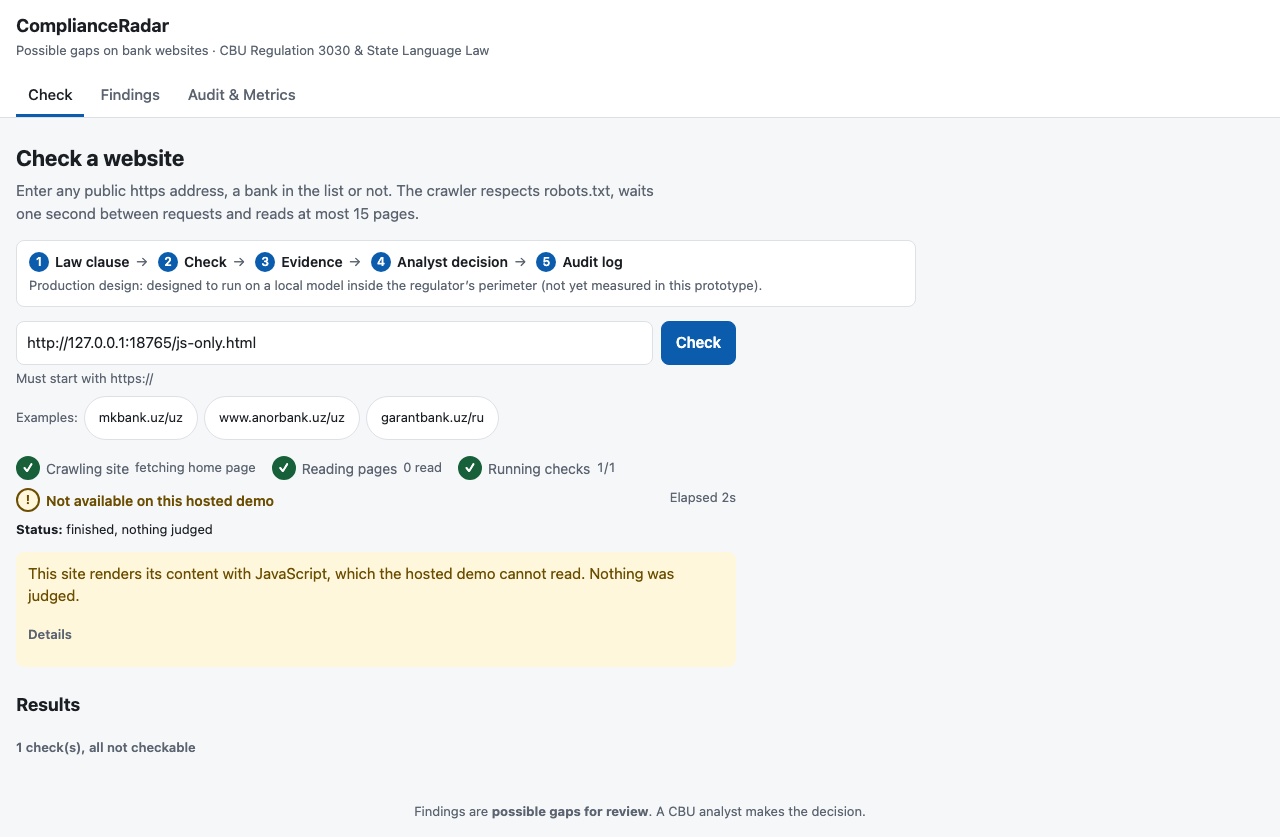
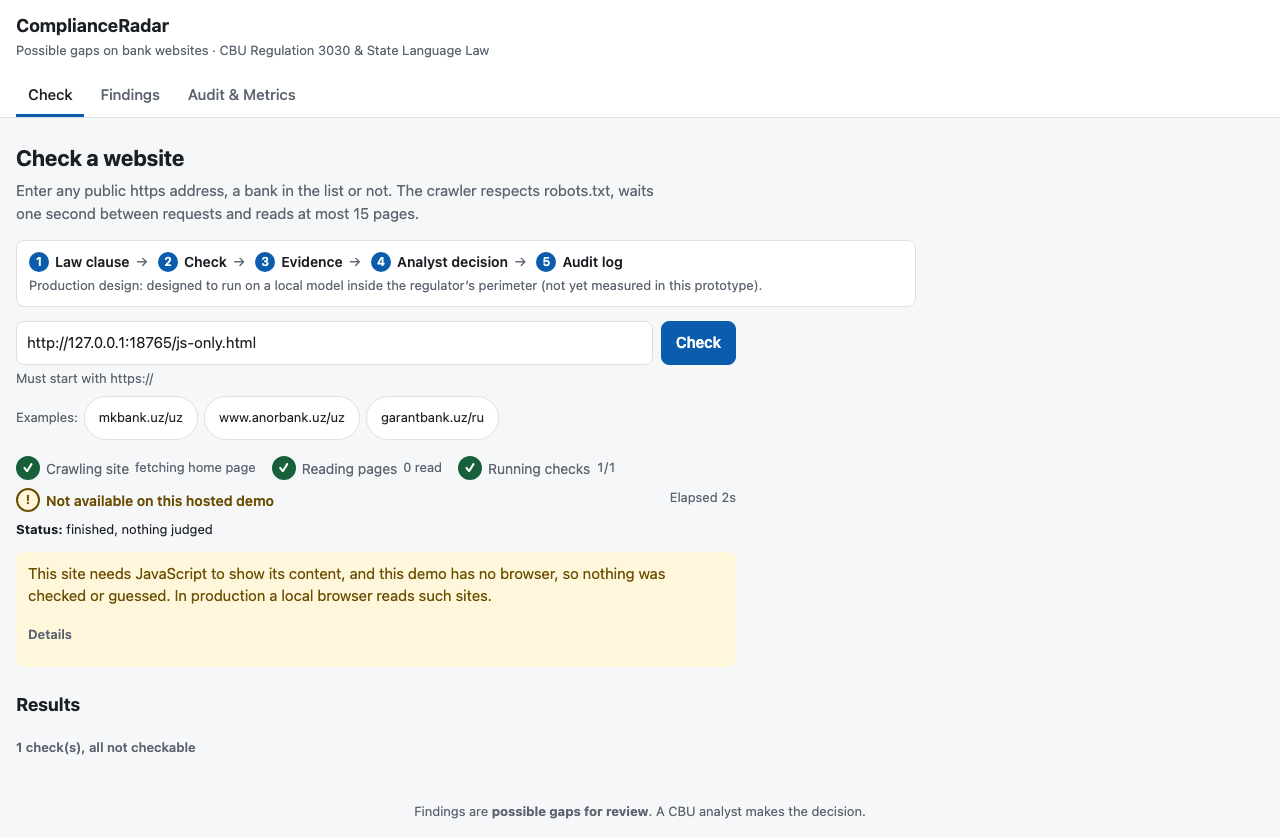
docs: known limitations for JavaScript-only sites; experiment reports; plain JS-only message
Copies eval/jina_fallback.md and eval/render_browser_experiment.md unchanged from their
branches. Nothing enabled: BROWSER_FALLBACK stays 0, no Jina fallback on main.

Changed region(s): [[0.0312, 0.6834, 0.5312, 0.7455]]

diff --git a/frontend/e2e/app.spec.js b/frontend/e2e/app.spec.js
@@ -96,7 +96,7 @@ test("a JavaScript-only site ends with one friendly message and an amber final s
   await expect(status).not.toContainText("Status: done");
   const message = status.getByTestId("js-only-message");
   await expect(message).toHaveText(
-    "This site renders its content with JavaScript, which the hosted demo cannot read. Nothing was judged.");
+    "This site needs JavaScript to show its content, and this demo has no browser, so nothing was checked or guessed. In production a local browser reads such sites.");
   // No pre-computed results exist for this host, so no Findings link is offered.
   await expect(message.getByRole("link")).toHaveCount(0);
   const stepper = page.getByRole("list", { name: "Check progress" });
@@ -111,7 +111,7 @@ test("a JavaScript-only site ends with one friendly message and an amber final s
   const visible = await page.evaluate(() => document.body.innerText);
   expect(visible).not.toMatch(/BROWSER_FALLBACK|[A-Z]{3,}_[A-Z_]{3,}=/);
   // The message appears once in the status area, not repeated as an error with Retry.
-  await expect(status.getByText("which the hosted demo cannot read")).toHaveCount(1);
+  await expect(status.getByText("this demo has no browser")).toHaveCount(1);
   await expect(status.getByRole("button", { name: "Retry" })).toHaveCount(0);
   const checks = page.getByTestId("js-only-checks");
   await expect(checks).toContainText("1 check(s), all not checkable");

diff --git a/frontend/src/pages/CheckPage.jsx b/frontend/src/pages/CheckPage.jsx
@@ -57,8 +57,8 @@ function JsOnlyNotice({ job }) {
   return (
     <Notice kind="warn">
       <span data-testid="js-only-message">
-        This site renders its content with JavaScript, which the hosted demo cannot read.
-        Nothing was judged.
+        This site needs JavaScript to show its content, and this demo has no browser, so
+        nothing was checked or guessed. In production a local browser reads such sites.
         {job.precomputed_findings > 0 && (
           <> Pre-computed results for this bank (made with a browser) are on
             the <a href="#/findings">Findings tab</a>.</>

diff --git a/backend/tests/test_reasons.py b/backend/tests/test_reasons.py
@@ -19,8 +19,8 @@ PRE = Path(__file__).resolve().parents[2] / "data" / "precomputed" / "findings.j
     ("not_checkable", "LLM timeout / rate limit: openai-compatible:api.groq.com: HTTP 429",
      "The LLM quota was exhausted or the call timed out; try again later."),
     ("not_checkable", "page needs JavaScript rendering; not available on this hosted demo (...)",
-     "This site renders its content with JavaScript, which the hosted demo cannot read. "
-     "Nothing was judged."),
+     "This site needs JavaScript to show its content, and this demo has no browser, so "
+     "nothing was checked or guessed. In production a local browser reads such sites."),
     ("ok", "Code: link \"Kalkulyatorlar\" (https://x.uz/c/) found on https://x.uz/ (any page); "
      "anchor text quoted from the page. Presence only: whether the calculator shows the full "
      "cost of the loan (all interest and fees) is not verified.",

diff --git a/backend/reasons.py b/backend/reasons.py
@@ -12,8 +12,8 @@ RECHECK = re.compile(r"^re-checked (\d{4}-\d{2}-\d{2}) \((.*?)\):\s*")
 # (pattern on the reason, short text). Short texts may use groups of the match.
 _PATTERNS: list[tuple[re.Pattern, str]] = [(re.compile(p, re.I | re.S), t) for p, t in [
     (r"page needs JavaScript rendering",
-     "This site renders its content with JavaScript, which the hosted demo cannot read. "
-     "Nothing was judged."),
+     "This site needs JavaScript to show its content, and this demo has no browser, so "
+     "nothing was checked or guessed. In production a local browser reads such sites."),
     (r"homepage text too short \((\d+) chars\)",
      "The homepage had too little text ({0} characters), likely dynamic content or a block, "
      "so no gap is reported."),

diff --git a/eval/jina_fallback.md b/eval/jina_fallback.md
@@ -1,0 +1,50 @@
+# Jina Reader fallback (RENDER_FALLBACK=jina): measurement
+
+Branch `jina-fallback`, 2026-10-11. Script: `eval/jina_fallback.py` (raw: `eval/jina_fallback.json`).
+
+Settings as on the hosted demo: `BROWSER_FALLBACK=0`, `RENDER_FALLBACK=jina`, 15 pages,
+60 s per run, 1 request/s per bank domain, Jina timeout 20 s, `X-Locale: uz-UZ`, no API key.
+No LLM (`llm=None`): the LLM-path checks (28^1, 37^5) can only end `not_checkable` here,
+while the stored laptop results used a local browser and the LLM. Throwaway database.
+
+| bank | pages (Jina run) | pages (stored) | ok/gap/n.c. (Jina run) | ok/gap/n.c. (stored) | secs (Jina run) | secs (stored) | how pages were read |
+|---|---|---|---|---|---|---|---|
+| agrobank | 2 | 4 | 5/0/4 | 5/0/4 | 60.1 | 67.7 | jina: 2 |
+| hayot_bank | 5 | 11 | 2/0/7 | 5/2/2 | 60.1 | 87.2 | jina: 5 |
+| universal_bank | 15 | 15 | 1/3/5 | 2/5/2 | 20.7 | 12.4 | httpx: 15 |
+| asakabank | 2 | no data | 2/0/7 | no data | 61.7 | no data | jina: 2 |
+
+Asakabank has no stored laptop result (not in the 6-bank batch).
+
+## Findings that differ from the stored results
+
+| bank | requirement | stored | Jina run | Jina-run reason (start) |
+|---|---|---|---|---|
+| hayot_bank | main:14 | possible_gap | not_checkable | site had 2 fetch error(s), e.g. https://hayotbank.uz/main/individual/tariff: browser render failed: No evidence found on 5 pages read. Code checked li |
+| hayot_bank | main:18^1 | possible_gap | not_checkable | site had 2 fetch error(s), e.g. https://hayotbank.uz/main/individual/tariff: browser render failed: No evidence found on 5 pages read. Code checked li |
+| hayot_bank | main:37^5 | ok | not_checkable | site had 2 fetch error(s), e.g. https://hayotbank.uz/main/individual/tariff: browser render failed: No evidence found on 5 pages read. No page matched |
+| hayot_bank | main:49 | ok | not_checkable | Code: "murojaat" appears in the text of https://hayotbank.uz/main/individual/home but not as a link the crawler could read (a button or script?); chec |
+| hayot_bank | main:51 | ok | not_checkable | site had 2 fetch error(s), e.g. https://hayotbank.uz/main/individual/tariff: browser render failed: No evidence found on 5 pages read. Code checked fo |
+| universal_bank | main:14 | possible_gap | not_checkable | homepage text too short (925 chars), likely dynamic content or blocked (threshold 1500, data/check_hints.yaml): No evidence found on 15 pages read. Co |
+| universal_bank | main:17 | possible_gap | not_checkable | homepage text too short (925 chars), likely dynamic content or blocked (threshold 1500, data/check_hints.yaml): No evidence found on 15 pages read. Co |
+| universal_bank | main:51 | ok | not_checkable | homepage text too short (925 chars), likely dynamic content or blocked (threshold 1500, data/check_hints.yaml): No evidence found on 15 pages read. Co |
+| asakabank | main:14 | no data | not_checkable | only 2 page(s) read (at least 5 needed to report a possible gap): No evidence found on 2 pages read. Code checked links matching sayt xaritasi, sayt k |
+| asakabank | main:17 | no data | not_checkable | Code: matching link "Bank haqida" found on https://asakabank.uz/uz/about-bank/bank-property, which is not a homepage page; the requirement names the h |
+| asakabank | main:18^1 | no data | not_checkable | only 2 page(s) read (at least 5 needed to report a possible gap): No evidence found on 2 pages read. Code checked links matching kalkulyator, калькуля |
+| asakabank | main:28^1 | no data | not_checkable | only 2 page(s) read (at least 5 needed to report a possible gap): No evidence found on 2 pages read. No page matched the keywords (keywords from hints |
+| asakabank | main:37^5 | no data | not_checkable | only 2 page(s) read (at least 5 needed to report a possible gap): No evidence found on 2 pages read. No page matched the keywords (keywords from hints |
+| asakabank | main:40^4 | no data | not_checkable | relevant section not reached (read 2 pages): no section page |
+| asakabank | main:49 | no data | not_checkable | Code: matching link "Boshqaruv raisi murojaati" found on https://asakabank.uz/uz/about-bank/bank-property, which is not a homepage page; the requireme |
+| asakabank | main:51 | no data | ok | Code: call-centre number +998 55) 514-41-08 found in the text of the homepage https://asakabank.uz/ru/. |
+| asakabank | main:7 | no data | ok | Uzbek version present (2 Uzbek pages of 2; completeness not assessed): 2 Uzbek and 0 Russian pages of 2 HTML pages read (Uzbek share 100%); language s |
+
+## Observations from earlier runs of the same script (same day)
+
+- Run 1 (before `X-Locale`): Jina rendered universalbank.uz in English, the crawler then
+  followed only `/en/` links and `main:7` became `not_checkable` ("no Uzbek or Russian
+  pages among 15"). `X-Locale: uz-UZ` was added after this.
+- Universal Bank's home page re-render through Jina succeeded in runs 1 and 2 (925 -> 4,308
+  characters) but failed in run 3 (above): results are not stable between runs.
+- Pages read by Jina per 60 s run: agrobank 2–3, hayot_bank 3–7, asakabank 2–4.
+- Asakabank `main:51`: the quote "+998 55) 514-41-08" is verbatim from Jina's Markdown
+  rendering, which differs in punctuation from what a browser shows.

diff --git a/README.md b/README.md
@@ -270,6 +270,29 @@ passages, not whole pages.
   is strict, so an LLM quote with a different apostrophe is rejected (`not_checkable`).
 - **Scanned PDFs** have no text layer: stored as `readable=false`, not OCR'd.
 
+## Known limitations
+
+- **JavaScript-only bank sites cannot be read on the hosted demo.** The hosted image has no
+  browser, so a site whose home page has almost no text without JavaScript ends with every
+  check `not_checkable` ("nothing was checked or guessed"). Home-page text measured over
+  plain HTTP (`scripts/probe_hosted_examples.py`, `data/hosted_examples.json`, threshold
+  1,500 characters from `data/check_hints.yaml`): Agrobank 0, Hayot Bank 0, Asakabank 0
+  (JavaScript shells), Universal Bank 925 (too short to report gaps); MKBANK 13,139, Anor
+  Bank 7,572 and Garant Bank 13,522 work. The Check screen offers only the working ones as
+  examples. Pre-computed results for the others were made on a laptop with a local browser.
+- **Jina Reader as an external renderer (tried, not enabled):** about 20 s per page, so a
+  60 s run read only 2–5 pages of a JavaScript-only site (laptop: 4–11), and results were
+  unstable between runs (Universal Bank's home page rendered in two runs and failed in the
+  third; without a locale header it rendered the English site). Report:
+  [`eval/jina_fallback.md`](eval/jina_fallback.md) (code on branch `jina-fallback`).
+- **Chromium in a small container (tried, not enabled):** at 512 MB memory never ran out
+  (peak 356 MiB). With 0.1 CPU every bank stopped after 1 page; with 0.5 CPU Agrobank read
+  5 pages and Hayot Bank 3 (laptop: 4 and 11), Universal Bank 15. Image 2.06 GB unpacked.
+  Report: [`eval/render_browser_experiment.md`](eval/render_browser_experiment.md) (code on
+  branch `render-free-browser`).
+- **Production design:** a local headless browser inside the regulator's perimeter
+  (`BROWSER_FALLBACK=1`), no external rendering API.
+
 ## Honest limitations
 
 - **Requirements must be approved by a human.** Until `data/requirements.yaml` exists, every

diff --git a/eval/render_browser_experiment.md b/eval/render_browser_experiment.md
@@ -1,0 +1,30 @@
+# Experiment: headless Chromium on a small Render-like container
+
+Branch `render-free-browser` (not merged, not deployed). Date: 2026-10-11.
+
+Setup: image with `playwright install --with-deps chromium`, `BROWSER_FALLBACK=1`,
+`BROWSER_TIMEOUT_SECONDS=25`, `--disable-dev-shm-usage --disable-gpu`, images/fonts/media
+blocked, one browser and one page at a time, context closed after each page,
+`MAX_CONCURRENT_CHECKS=1`. Unchanged rules: robots.txt, 1 request/s per domain, 15-page
+cap, 60 s per-run time budget (`CRAWLER_TIME_BUDGET_SECONDS` default).
+LLM: no provider configured in the container (no `.env` in the image), so no LLM calls;
+the two LLM-assisted checks (28^1, 37^5) can only end `not_checkable` in these runs.
+Runs: `docker run --memory=512m --memory-swap=512m --cpus=<0.1|0.5>`, one bank at a time
+through `POST /check`; memory sampled with `docker stats` every second.
+
+Host: Apple Silicon (arm64, native image). Render runs amd64: CPU timings are indicative.
+
+| CPUs | bank | total s | pages | decided of 9 | ok/gap/n.c. | peak MiB | OOM / restart |
+|---|---|---|---|---|---|---|---|
+| 0.1 | agrobank | 86.3 | 1 | 5 | 5/0/4 | 242 | no / 0 |
+| 0.1 | hayot_bank | 86.3 | 1 | 2 | 2/0/7 | 274 | no / 0 |
+| 0.1 | universal_bank | 95.6 | 1 | 2 | 2/0/7 | 275 | no / 0 |
+| 0.5 | agrobank | 62.8 | 5 | 7 | 5/2/2 | 356 | no / 0 |
+| 0.5 | hayot_bank | 63.9 | 3 | 4 | 4/0/5 | 323 | no / 0 |
+| 0.5 | universal_bank | 24.6 | 15 | 7 | 2/5/2 | 291 | no / 0 |
+
+Idle container: about 46 MiB. Cold start to healthy: 23.3 s at 0.1 CPU, 1.0 s at 0.5 CPU.
+For reference, the stored pre-computed runs (laptop, browser, real LLM) read 4 / 11 / 15
+pages for agrobank / hayot_bank / universal_bank.
+
+Image: 2.06 GB unpacked (578 MB compressed), local build 120 s with `--no-cache`.
